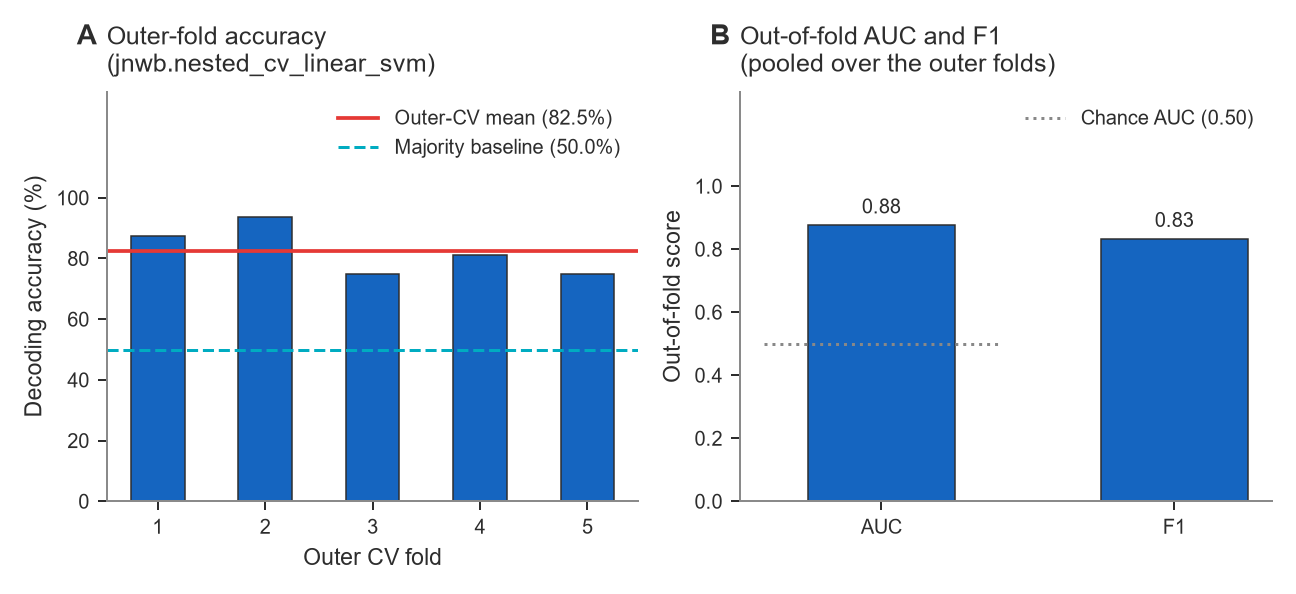
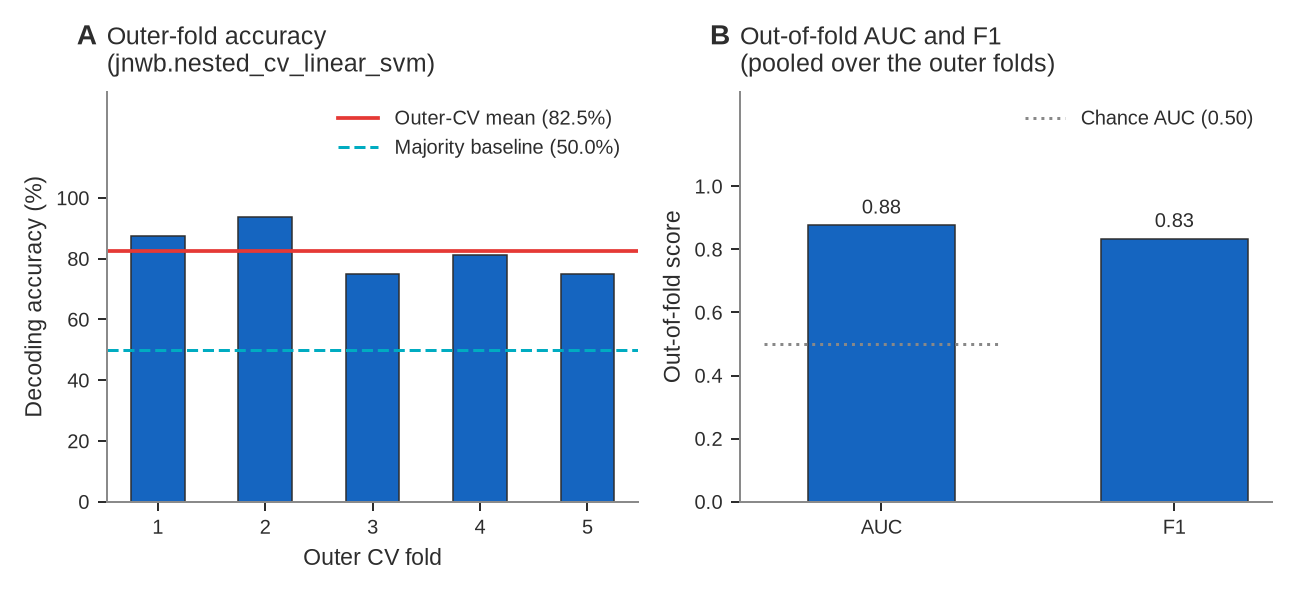
09-16: draw the committed figures in Liberation Sans on every leg
CI run 37266345076: ubuntu mscorefonts Arial 2.82 differs from Windows Arial 7.06 in
0.20-0.44% of pixels. The figure style now registers LiberationSans-{Regular,Bold}.ttf
from JNWB_FIGURE_FONT_DIR and has no fallback family; the generator exits 3 naming the
font when it is absent, and the comparison test fails (required) or skips (otherwise)
naming it. The three workflow font steps download the one pinned 2.1.5 tarball, check
its sha256 and export the directory, on Windows too. Figures regenerated with
Matplotlib 3.11.2, the compared leg's pin; CHANGED_FRACTION unchanged.

diff --git a/tests/test_generated_figures_are_maintained.py b/tests/test_generated_figures_are_maintained.py
@@ -53,6 +53,12 @@ CHANGED_FRACTION = 1e-5
 #: a CI leg can pass "0" explicitly.
 REQUIRE_COMPARISON = "JNWB_REQUIRE_FIGURE_COMPARISON"
 WORKFLOW = REPO_ROOT / ".github" / "workflows" / "workflow.yml"
+#: The generator's exit status when the figure font is not registered.
+FONT_MISSING_EXIT = 3
+#: The one font file every leg installs, and its hash.
+FONT_URL = "https://github.com/liberationfonts/liberation-fonts/files/7261482/liberation-fonts-ttf-2.1.5.tar.gz"
[1 lines of base64/hex data omitted]
+FONT_DIR_ENV = "JNWB_FIGURE_FONT_DIR"
 
 
 def _registry():
@@ -81,11 +87,16 @@ def _changed_fraction(a: np.ndarray, b: np.ndarray) -> float:
 
 @pytest.fixture(scope="module")
 def regenerated(tmp_path_factory):
+    """The directory the generator wrote, or, when it stopped because the figure font is not
+    registered (its exit status `FONT_MISSING_EXIT`), the message it printed naming the font."""
     out = tmp_path_factory.mktemp("figures")
-    subprocess.run(
+    run = subprocess.run(
         [sys.executable, str(GENERATOR), "--out-dir", str(out)],
-        check=True, capture_output=True, text=True, cwd=REPO_ROOT, stdin=subprocess.DEVNULL,
+        capture_output=True, text=True, cwd=REPO_ROOT, stdin=subprocess.DEVNULL,
     )
+    if run.returncode == FONT_MISSING_EXIT:
+        return run.stderr.strip()
+    run.check_returncode()
     return out
 
 
@@ -113,7 +124,12 @@ def test_the_committed_figure_is_what_the_generator_draws(name, regenerated):
         if os.environ.get(REQUIRE_COMPARISON) == "1":
             pytest.fail(f"{REQUIRE_COMPARISON} is set and no comparison is possible: {why}")
         pytest.skip(why)
-    fraction = _changed_fraction(mpimg.imread(committed), mpimg.imread(regenerated / name))
+    if isinstance(regenerated, str):
+        why = f"the figure font is missing, so nothing can be compared: {regenerated}"
+        if os.environ.get(REQUIRE_COMPARISON) == "1":
+            pytest.fail(f"{REQUIRE_COMPARISON} is set and no comparison is possible: {why}")
+        pytest.skip(why)
+    fraction =_changed_fraction(mpimg.imread(committed), mpimg.imread(regenerated / name))
     assert fraction < CHANGED_FRACTION, (
         f"{name}: {fraction:.4%} of pixels differ from `python docs/generate_figures.py "
         f"--only {name}`; regenerate it, or explain the drift"
@@ -186,10 +202,11 @@ def test_one_ci_leg_compares_the_figures_at_the_version_that_wrote_them():
         f"the suite step does not set {REQUIRE_COMPARISON}=1 on the compared leg: {env!r}")
 
 
-def test_every_linux_leg_that_runs_the_suite_installs_arial_first():
-    """The figures are drawn in Arial, which the ubuntu runners lack: a leg that ran the
-    comparison without it would fail on the fallback font. Each such job installs the core
-    fonts, with the licence accepted through debconf, before its first pytest step."""
+def test_every_leg_that_runs_the_suite_installs_the_figure_font_first():
+    """The figures are drawn in Liberation Sans, which no runner has: a leg that ran the
+    comparison without it would stop on the missing font. Each job that runs the suite, Windows
+    included, downloads the one pinned release tarball, checks its sha256, extracts it and
+    exports `JNWB_FIGURE_FONT_DIR` through `$GITHUB_ENV` before its first pytest step."""
     import yaml
 
     jobs = yaml.safe_load(WORKFLOW.read_text(encoding="utf-8"))["jobs"]
@@ -199,12 +216,16 @@ def test_every_linux_leg_that_runs_the_suite_installs_arial_first():
         runs = [i for i, s in enumerate(steps) if "pytest" in str(s.get("run", ""))
                 and "tests" in str(s.get("run", ""))]
         on = str(job.get("runs-on", ""))
-        if not runs or ("windows" in on and "ubuntu" not in on):
+        if not runs:
             continue
         checked.append(name)
-        fonts = [i for i, s in enumerate(steps)
-                 if re.search(r"apt-get install\b[^\n]*ttf-mscorefonts-installer", str(s.get("run", "")))]
-        assert fonts and fonts[0] < runs[0], f"job {name} runs the suite without installing Arial first"
-        install = steps[fonts[0]]["run"]
-        assert "debconf-set-selections" in install and "accepted-mscorefonts-eula select true" in install
+        fonts = [i for i, s in enumerate(steps) if FONT_URL in str(s.get("run", ""))]
+        assert fonts and fonts[0] < runs[0], f"job {name} runs the suite without installing the font first"
+        step = steps[fonts[0]]
+        install = step["run"]
+        assert step.get("shell") == "bash", f"job {name}: the font step must run in bash on every leg"
+        assert f"{FONT_SHA256}  " in install and "sha256sum -c" in install, f"job {name}: the download is not checked"
+        assert "tar xzf" in install
+        assert re.search(rf"{FONT_DIR_ENV}=\S+\s*>>\s*\"?\$GITHUB_ENV", install), f"job {name} does not export the font directory"
     assert {"test", "test-floors", "build"} <= set(checked), checked
+    assert len({FONT_URL, FONT_SHA256}) == 2

diff --git a/docs/figure_style.py b/docs/figure_style.py
@@ -10,11 +10,21 @@ from this module, and `tests/test_figure_form.py` reads the rendered figures aga
 """
 from __future__ import annotations
 
+import os
+from pathlib import Path
+
 import matplotlib.pyplot as plt
 from cycler import cycler
+from matplotlib import font_manager
 
-#: Arial first. The later families only draw where Arial is not installed.
-FAMILY = ["Arial", "DejaVu Sans"]
+#: Liberation Sans, which has Arial's metrics and is one file on every machine, so a figure
+#: renders the same pixels on Windows and Linux. No fallback family: a machine without the font
+#: stops generation (`FontMissing`) instead of drawing a different figure.
+FONT = "Liberation Sans"
+#: The directory holding the two font files below; `apply` registers them with Matplotlib.
+FONT_DIR_ENV = "JNWB_FIGURE_FONT_DIR"
+FONT_FILES = ("LiberationSans-Regular.ttf", "LiberationSans-Bold.ttf")
+FAMILY = [FONT]
 #: Size tiers, in points: panel titles, axis labels, and everything smaller (ticks, legends,
 #: annotations). The panel letter is the largest text on a figure.
 LETTER = 11.0
@@ -77,8 +87,39 @@ RC = {
 }
 
 
+class FontMissing(RuntimeError):
+    """The figure font is not registered with Matplotlib."""
+
+
+def register_font() -> None:
+    """Register the font files in the directory `FONT_DIR_ENV` names."""
+    directory = os.environ.get(FONT_DIR_ENV)
+    if not directory:
+        return
+    for name in FONT_FILES:
+        path = Path(directory) / name
+        if path.is_file():
+            font_manager.fontManager.addfont(str(path))
+
+
+def check_font() -> None:
+    """Raise `FontMissing` unless the regular and the bold file of `FONT` are the ones Matplotlib
+    resolves, so a bold request cannot pass on the regular file."""
+    for weight, name in zip(("normal", "bold"), FONT_FILES):
+        try:
+            found = font_manager.findfont(
+                font_manager.FontProperties(family=FONT, weight=weight), fallback_to_default=False)
+        except ValueError:
+            found = ""
+        if Path(found).name != name:
+            raise FontMissing(
+                f"font {FONT!r} ({name}) is not registered: set {FONT_DIR_ENV} to the directory "
+                f"holding {', '.join(FONT_FILES)}")
+
+
 def apply() -> None:
-    """Set the style for the figures that follow."""
+    """Set the style for the figures that follow, registering the figure font first."""
+    register_font()
     plt.rcParams.update(RC)
 
 

diff --git a/docs/generate_figures.py b/docs/generate_figures.py
@@ -4,6 +4,11 @@ Each figure draws results of public jnwb calls on synthetic test signals with kn
 truth, producing reproducible figures for docs/assets/figures/. The palette, fonts, size tiers,
 line widths and the figure width come from docs/figure_style.py.
 
+Regenerate with the Matplotlib release the compared CI leg pins (`matplotlib==` in
+.github/workflows/workflow.yml; each PNG records the one that wrote it) and with the figure font:
+set JNWB_FIGURE_FONT_DIR to the directory holding LiberationSans-Regular.ttf and
+LiberationSans-Bold.ttf from the 2.1.5 release tarball named in that workflow.
+
 Usage:
     python docs/generate_figures.py                     # rewrite docs/assets/figures/
     python docs/generate_figures.py --out-dir DIR       # write elsewhere, e.g. to compare
@@ -52,6 +57,9 @@ C_LIGHT_GRAY = THEMES["light"]["faint"]
 SUFFIX = THEMES["light"]["suffix"]
 #: The highlight of the theme being drawn, from the style module.
 C_HIGHLIGHT = style.HIGHLIGHT["light"]
+
+#: The exit status of a run that stopped because the figure font is absent.
+FONT_MISSING_EXIT = 3
 
 style.apply()
 
@@ -668,6 +676,11 @@ def main(argv=None):
     parser.add_argument("--out-dir", type=Path, default=FIGURE_DIR)
     parser.add_argument("--only", nargs="+", choices=sorted(FIGURES), default=sorted(FIGURES))
     args = parser.parse_args(argv)
+    try:
+        style.check_font()
+    except style.FontMissing as exc:
+        print(f"generate_figures: {exc}", file=sys.stderr)
+        raise SystemExit(FONT_MISSING_EXIT)
     OUT_DIR = args.out_dir
     OUT_DIR.mkdir(parents=True, exist_ok=True)
     for theme in THEMES:

diff --git a/tests/test_figure_form.py b/tests/test_figure_form.py
@@ -27,7 +27,7 @@ Every figure the documentation generators draw (`docs/generate_figures.py` and
 | fits | a fit drawn over a log-log spectrum sits on the spectrum's grid, centred on it |
 | palette | every colour drawn is a series colour, the highlight, the neutral or the theme's ink, and no generator types one |
 | colour vision | the series and highlight colours drawn stay apart under deutan, protan and tritan simulation |
-| type | every text is set in Arial first and measures 8 to 11 pt |
+| type | every text is set in Liberation Sans and measures 8 to 11 pt |
 | spines | no axes draws a top or right spine |
 | panel letters | each panel of a multi-panel figure carries one bold letter, outside its title |
 | line widths | every data line is 1.2 to 1.8 pt, taken from the style module |
@@ -1652,7 +1652,7 @@ def _text_size_failures(fig, bounds=RULED_TEXT_PT) -> list[str]:
 def _font_failures(fig) -> list[str]:
     _renderer(fig)
     return [f"{t.get_text()!r} is set in {t.get_fontfamily()}" for t in _drawn_texts(fig)
-            if t.get_fontfamily()[0] != "Arial"]
+            if t.get_fontfamily()[0] != STYLE.FONT]
 
 
 def _spine_failures(fig) -> list[str]:
